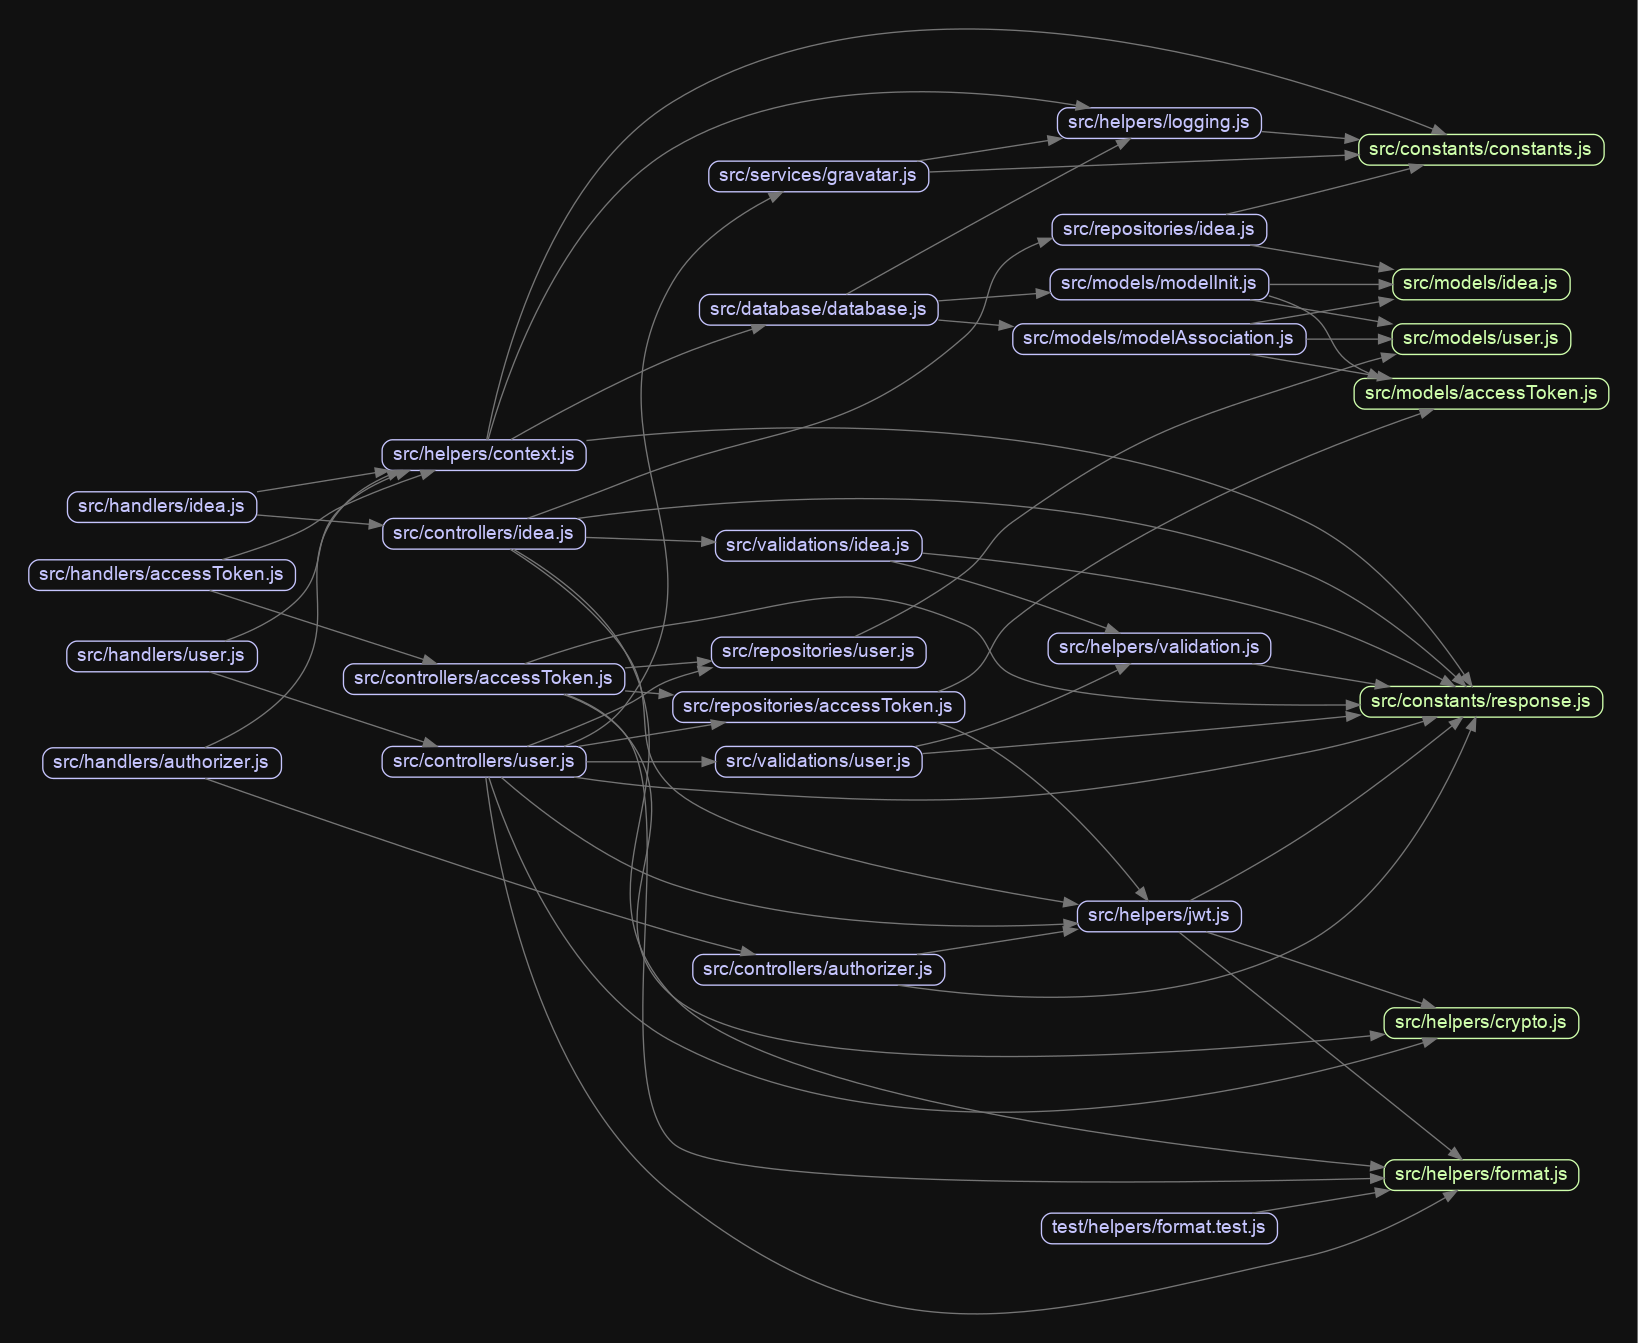
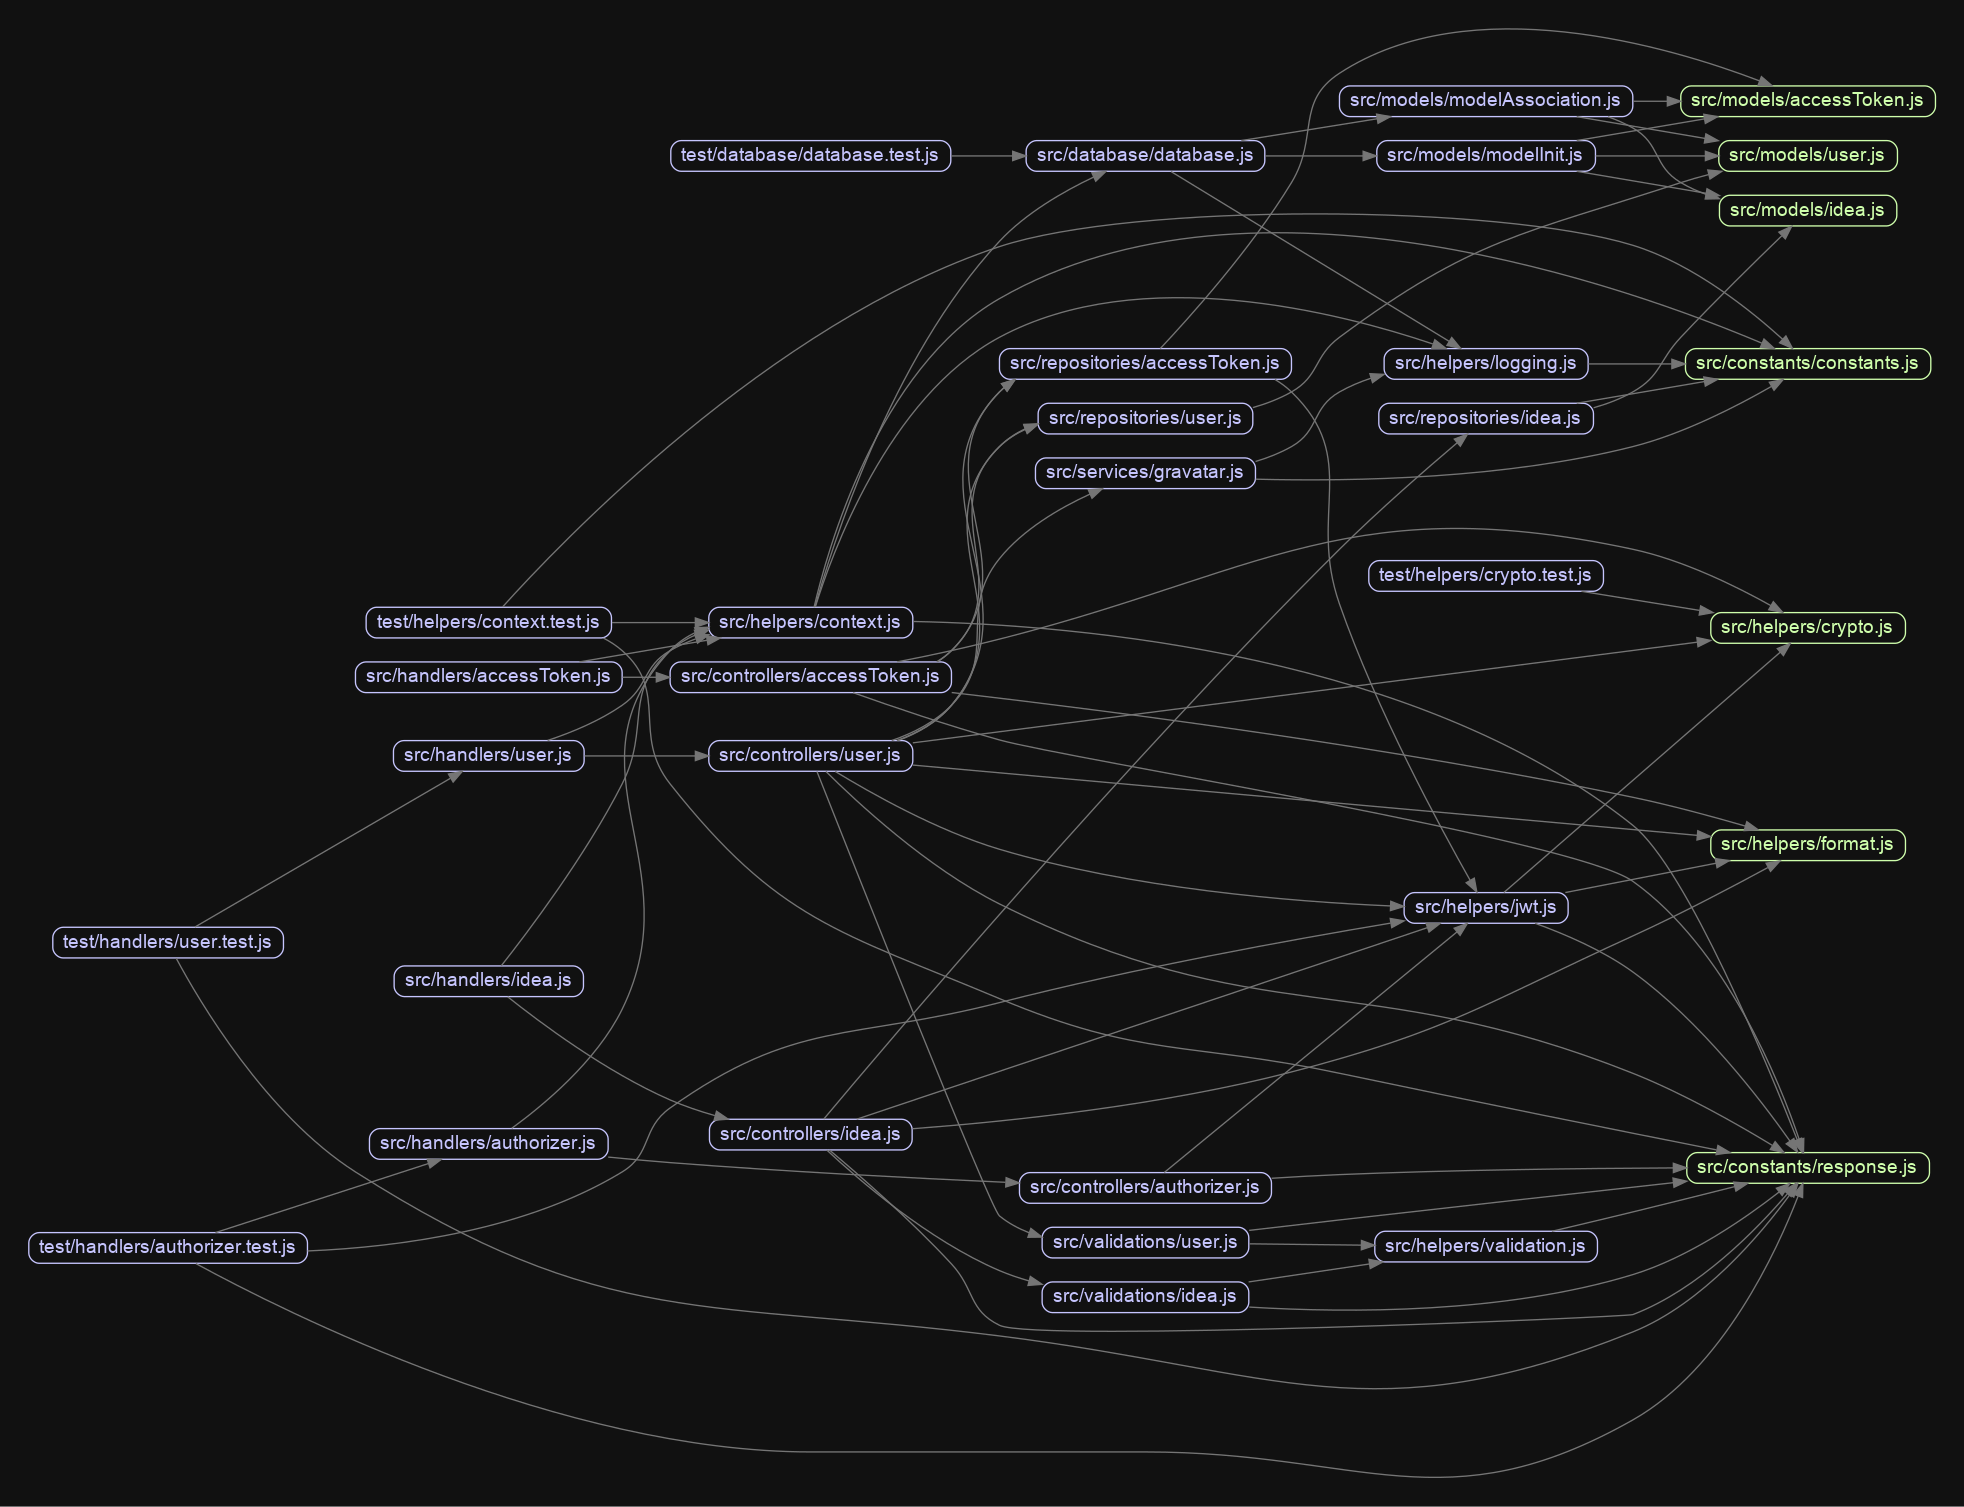
added integration tests

diff --git a/test/handlers/user.test.js b/test/handlers/user.test.js
@@ -1,0 +1,102 @@
+import assert from 'assert';
+import { describe } from 'mocha';
+import sinon from 'sinon';
+import gravatar from 'gravatar';
+import { signup, profile } from '../../src/handlers/user';
+import { STATUS_CODES, ERROR_CODES } from '../../src/constants/response';
+
+describe('handlers/user', function() {
+    const fakeAvatarUrl = 'https://www.test.com/test.png';
+
+    before(function() {
+        sinon.stub(gravatar, 'url').callsFake(() => fakeAvatarUrl);
+    });
+
+    after(function() {
+        sinon.restore();
+    });
+
+    it('should return a bad parameters status on missing body', async function() {
+        const response = await signup(null, {});
+        assert.equal(response.statusCode, STATUS_CODES.BAD_PARAMETERS);
+    });
+
+    it('should return a bad parameters status on invalid user signup data', async function() {
+        const payload = JSON.stringify({
+            email: 'test@invalid',
+            name: 'Test User',
+            password: 'aB1xxxxx'
+        });
+
+        const response = await signup({ body: payload }, {});
+
+        assert.equal(response.statusCode, STATUS_CODES.BAD_PARAMETERS);
+
+        const parsedBody = JSON.parse(response.body);
+        assert.equal(parsedBody.error, ERROR_CODES.USER_EMAIL);
+    });
+
+    it('should sign up new users', async function() {
+        const payload = JSON.stringify({
+            email: 'test@test.com',
+            name: 'Test User',
+            password: 'aB1xxxxx'
+        });
+
+        const response = await signup({ body: payload }, {});
+
+        assert.equal(response.statusCode, STATUS_CODES.CREATED);
+
+        const parsedBody = JSON.parse(response.body);
+        assert(parsedBody.jwt);
+        assert(parsedBody.refresh_token);
+    });
+
+    it('should fail for already existing email addresses', async function() {
+        const payload = JSON.stringify({
+            email: 'test@test.com',
+            name: 'Test User',
+            password: 'aB1xxxxx'
+        });
+
+        const response = await signup({ body: payload }, {});
+
+        assert.equal(response.statusCode, STATUS_CODES.BAD_PARAMETERS);
+
+        const parsedBody = JSON.parse(response.body);
+        assert.equal(parsedBody.error, ERROR_CODES.USER_EMAIL_EXISTS);
+    });
+
+    it('should return the user profile for authorized users', async function() {
+        const payload = JSON.stringify({
+            email: 'test-profile@test.com',
+            name: 'Test User',
+            password: 'aB1xxxxx'
+        });
+
+        const responseSignup = await signup({ body: payload }, {});
+
+        const { jwt } = JSON.parse(responseSignup.body);
+
+        const responseProfile = await profile(
+            {
+                headers: {
+                    'x-access-token': jwt
+                }
+            },
+            {}
+        );
+
+        assert.equal(responseProfile.statusCode, STATUS_CODES.OK);
+        const parsedBody = JSON.parse(responseProfile.body);
+
+        assert.deepEqual(
+            {
+                email: 'test-profile@test.com',
+                name: 'Test User',
+                avatar_url: fakeAvatarUrl
+            },
+            parsedBody
+        );
+    });
+});

diff --git a/test/helpers/crypto.test.js b/test/helpers/crypto.test.js
@@ -9,39 +9,33 @@ import {
 describe('helpers/crypto', function() {
     const password = 'test-Passw0rd';
 
-    describe('randomUid', function() {
-        it('should create unique uids', function() {
-            assert.notEqual(randomUid(), randomUid());
-        });
-
-        it('should respect the defined length', function() {
-            assert.equal(randomUid(13).length, 13);
-        });
+    it('should create unique random uids', function() {
+        assert.notEqual(randomUid(), randomUid());
     });
 
-    describe('getPasswordHash', function() {
-        it('should create deterministic password hashes', function() {
-            assert.equal(getPasswordHash(password), getPasswordHash(password));
-        });
-
-        it('should respect the defined APP_SECRET', function() {
-            const currentAppSecret = process.env.APP_SECRET;
-            const currentAppSecretPasswordHash = getPasswordHash(password);
-
-            process.env.APP_SECRET = 'test-app-secret';
-            const passwordHash = getPasswordHash(password);
-            process.env.APP_SECRET = currentAppSecret;
-
-            assert.notEqual(currentAppSecretPasswordHash, passwordHash);
-        });
+    it('should respect the defined random uid length', function() {
+        assert.equal(randomUid(13).length, 13);
     });
 
-    describe('isPasswordMatch', function() {
-        it('should match password and password hash', function() {
-            assert.equal(
-                isPasswordMatch(password, getPasswordHash(password)),
-                true
-            );
-        });
+    it('should create deterministic password hashes', function() {
+        assert.equal(getPasswordHash(password), getPasswordHash(password));
+    });
+
+    it('should respect the defined APP_SECRET when creating password hashes', function() {
+        const currentAppSecret = process.env.APP_SECRET;
+        const currentAppSecretPasswordHash = getPasswordHash(password);
+
+        process.env.APP_SECRET = 'test-app-secret';
+        const passwordHash = getPasswordHash(password);
+        process.env.APP_SECRET = currentAppSecret;
+
+        assert.notEqual(currentAppSecretPasswordHash, passwordHash);
+    });
+
+    it('should match password and password hash', function() {
+        assert.equal(
+            isPasswordMatch(password, getPasswordHash(password)),
+            true
+        );
     });
 });

diff --git a/test/helpers/context.test.js b/test/helpers/context.test.js
@@ -1,0 +1,76 @@
+import assert from 'assert';
+import { describe } from 'mocha';
+import sinon from 'sinon';
+import Sequelize from 'sequelize';
+import preparedContext from '../../src/helpers/context';
+import { WARMUP_EVENT_SOURCE } from '../../src/constants/constants';
+import { STATUS_CODES } from '../../src/constants/response';
+
+describe('helpers/context', function() {
+    const logs = {
+        log: null,
+        warn: null,
+        error: null
+    };
+
+    const stub = () => {
+        sinon.stub(console, 'log').callsFake(message => {
+            logs.log = message;
+        });
+
+        sinon.stub(console, 'warn').callsFake(message => {
+            logs.warn = message;
+        });
+
+        sinon.stub(console, 'error').callsFake(message => {
+            logs.error = message;
+        });
+
+        sinon.stub(Sequelize.prototype, 'sync');
+    };
+
+    const unstub = () => {
+        sinon.restore();
+    };
+
+    it('should return an internal server error on unexpected exceptions', async function() {
+        stub();
+
+        const result = await preparedContext();
+        assert.deepEqual(result, {
+            statusCode: STATUS_CODES.INTERNAL_SERVER_ERROR
+        });
+
+        unstub();
+    });
+
+    it('should re-throw errors used for the authorization', async function() {
+        stub();
+
+        await preparedContext(null, null, null, true).catch(error => {
+            unstub();
+            return assert(error);
+        });
+    });
+
+    it('should quickly return when executed as a warmup call', async function() {
+        const result = await preparedContext(
+            { source: WARMUP_EVENT_SOURCE },
+            {}
+        );
+        assert.equal(result, WARMUP_EVENT_SOURCE);
+    });
+
+    it('should return the result of the exec function', async function() {
+        stub();
+
+        let testVariable = null;
+
+        await preparedContext({}, { source: 'not-warmup-source' }, () => {
+            testVariable = 'test';
+        });
+        assert.equal(testVariable, 'test');
+
+        unstub();
+    });
+});

diff --git a/test/handlers/authorizer.test.js b/test/handlers/authorizer.test.js
@@ -1,0 +1,57 @@
+import assert from 'assert';
+import { describe } from 'mocha';
+import authorizer from '../../src/handlers/authorizer';
+import { STATUS_CODE_STRINGS } from '../../src/constants/response';
+import { createJwtToken } from '../../src/helpers/jwt';
+
+describe('handlers/authorizer', function() {
+    it('should reject unauthorized access', async function() {
+        await authorizer({}, {}).catch(error =>
+            assert.equal(error, STATUS_CODE_STRINGS.UNAUTHORIZED)
+        );
+    });
+
+    it('should reject access on invalid access token', async function() {
+        await authorizer(
+            { authorizationToken: 'invalid-access-token' },
+            {}
+        ).catch(error => assert.equal(error, STATUS_CODE_STRINGS.UNAUTHORIZED));
+    });
+
+    it('should reject access on missing user id', async function() {
+        const { jwt } = createJwtToken({});
+
+        await authorizer({ authorizationToken: jwt.toString() }, {}).catch(
+            error => assert.equal(error, STATUS_CODE_STRINGS.UNAUTHORIZED)
+        );
+    });
+
+    it('should gain access on valid access token', async function() {
+        const userId = 123;
+        const { jwt } = createJwtToken({ userId });
+        const result = await authorizer(
+            { authorizationToken: jwt.toString() },
+            {}
+        );
+
+        assert.equal(result.principalId, userId);
+
+        const statementResource = result.policyDocument.Statement[0].Resource;
+
+        assert(statementResource.includes(process.env.AWS_LAMBDA_REGION));
+        assert(statementResource.includes(process.env.AWS_LAMBDA_STAGE));
+
+        const currentState = process.env.AWS_LAMBDA_STAGE;
+        process.env.AWS_LAMBDA_STAGE = 'local';
+        const resultLocal = await authorizer(
+            { authorizationToken: jwt.toString() },
+            {}
+        );
+        assert(
+            resultLocal.policyDocument.Statement[0].Resource.includes(
+                'random-account-id'
+            )
+        );
+        process.env.AWS_LAMBDA_STAGE = currentState;
+    });
+});

diff --git a/test/database/database.test.js b/test/database/database.test.js
@@ -1,0 +1,16 @@
+import assert from 'assert';
+import { describe } from 'mocha';
+import database, { reset } from '../../src/database/database';
+
+describe('database/database', function() {
+    it('should connect to the production database when no sqlite file defined', async function() {
+        const connection = await database();
+        assert(connection);
+
+        reset();
+
+        const connectionAfterReset = await database();
+
+        assert.notEqual(connection, connectionAfterReset);
+    });
+});

diff --git a/src/database/database.js b/src/database/database.js
@@ -64,4 +64,8 @@ const database = async () => {
     /* eslint-enable no-console */
 };
 
+export const reset = () => {
+    sequelize = null;
+};
+
 export default database;
